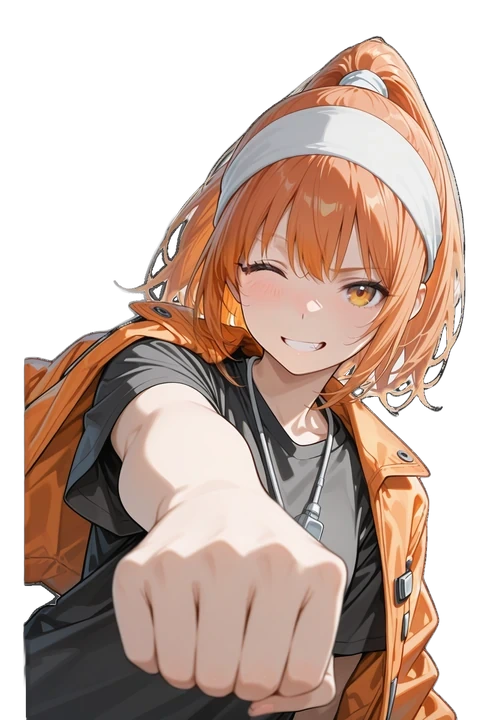
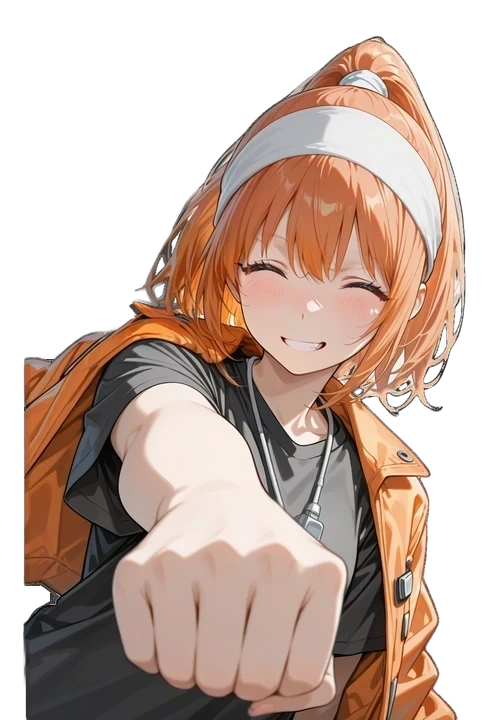
fix: 立ち絵の表情差分の壊れた顔を直す (28枚)
- 瑠璃: happy の閉じた右目が半分開いて灰色に見えていた、口の中が灰色。fired の顔が瑠璃らしくない (歯を食いしばった不敵な笑み) ので、明るく口を開けた笑顔に描き直す。前髪に残った濃い青の帯を淡い髪色に
- 茜: 顔のまわりの髪が灰色に浮いて光の輪に見えていたのを、元の黒に沈める。正面の6枚は前髪のすき間の額を元の絵に戻す。surprised の左右の目の色違いと白いにじみ、blink の口のまわり、happy・fired の分け目のにじみ
- 紫苑: frustrated の眼鏡のふちの二重、surprised の前髪の切れ
- 杏: happy の片目が開いていた、fired・happy の頭の左の髪の穴とまだら
- ART_VER を 5 に

Changed region(s): [[0.2126, 0.275, 0.4251, 0.4889], [0.668, 0.3667, 0.8198, 0.4583]]

diff --git a/js3d/avatar.js b/js3d/avatar.js
@@ -93,7 +93,7 @@ const pick = (list) => list[Math.floor(Math.random() * list.length)];
 export const avatarIds = () => Object.keys(AVATARS).filter(id => !AVATARS[id].boss);
 /* 立ち絵の版。画像には版の印が付かないので、同じ名前で差し替えたらここを上げる (古い絵がしばらく出るのを防ぐ)。3 = 2026-10-01 頭の先まで入る枠で切り直し (E:SDSwarmUIOutputvatar_v2export_v4headroom.py) */
 /* 4 = 2026-10-05 4人の服と髪飾りを新デザインに寄せた (顔は前のまま。E:/SD/SwarmUI/Output/avatar_v2/export_v4/design_restyle.py) */
-export const ART_VER = 4;
+export const ART_VER = 5;
 /* 声の版。同じ名前で声を作り直したらここを上げる (古い声がしばらく鳴るのを防ぐ)。5 = 2026-10-02 読みの直し (止められ・上回・開いた・命) とセリフの差し替え */
 export const VOICE_VER = 9;
 /* 声の大きさをキャラどうしでそろえる。測った大きさ (ラウドネス、LUFS。ffmpeg の ebur128 の中央値) から、VOICE_TARGET へ合わせる倍率を出す。

diff --git a/three-play.html b/three-play.html
@@ -4603,7 +4603,7 @@
       "./js3d/audio.js": "./js3d/audio.js?v=46d0a80804",
       "./js3d/avatar-boss-lines.js": "./js3d/avatar-boss-lines.js?v=507ebedfac",
       "./js3d/avatar-lines.js": "./js3d/avatar-lines.js?v=5e00862ad8",
-      "./js3d/avatar.js": "./js3d/avatar.js?v=f16cad472f",
+      "./js3d/avatar.js": "./js3d/avatar.js?v=227997ef8a",
       "./js3d/backdrops.js": "./js3d/backdrops.js?v=90faf9612d",
       "./js3d/bgm-shop.js": "./js3d/bgm-shop.js?v=c1b34e6d03",
       "./js3d/bgm.js": "./js3d/bgm.js?v=13a05307f5",
@@ -4719,7 +4719,7 @@
   <link rel="modulepreload" href="js3d/spectate.js?v=ed159bd7b8">
   <link rel="modulepreload" href="js3d/watchtools.js?v=ad10da8d17">
   <link rel="modulepreload" href="js3d/replays-ui.js?v=c76f859c99">
-  <link rel="modulepreload" href="js3d/avatar.js?v=f16cad472f">
+  <link rel="modulepreload" href="js3d/avatar.js?v=227997ef8a">
   <link rel="modulepreload" href="js3d/avatar-lines.js?v=5e00862ad8">
   <link rel="modulepreload" href="js3d/motion.js?v=71cd68f8ff">
   <link rel="modulepreload" href="js3d/gacha.js?v=c86c6a30ac">
